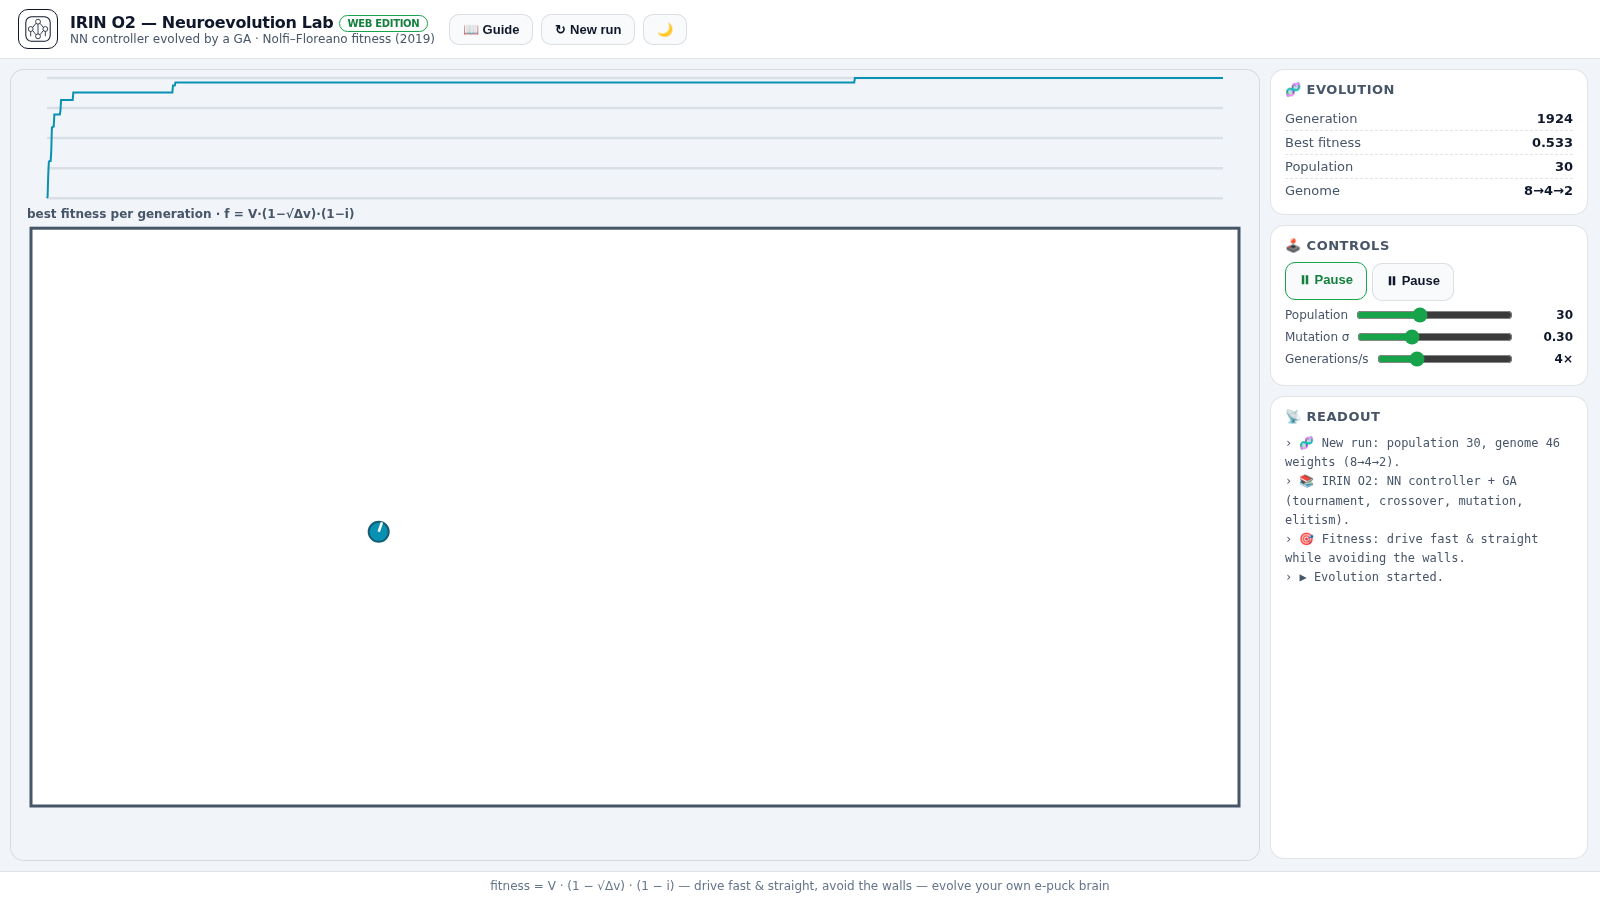
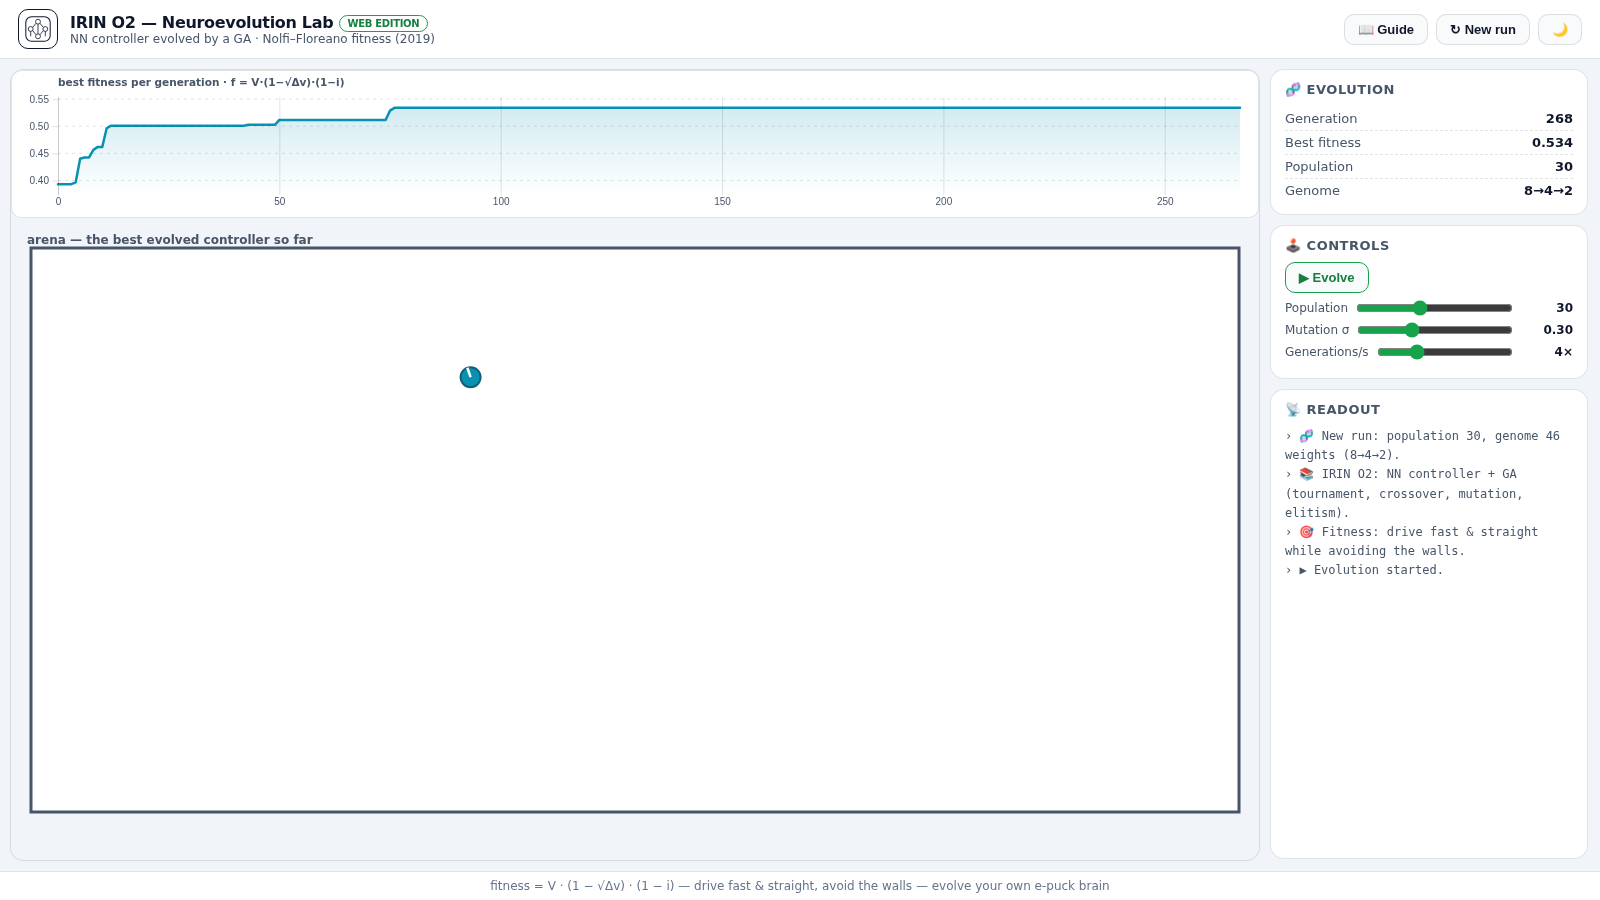
ui: remove redundant Pause button — the Evolve button toggles to Pause when running

diff --git a/webgame/js/main.js b/webgame/js/main.js
@@ -243,10 +243,6 @@
       this.textContent = running ? "⏸ Pause" : "▶ Evolve";
       if (running && history.length === 0) log("▶ Evolution started.");
     });
-    $id("btn-pause").addEventListener("click", function () {
-      running = false;
-      $id("btn-run").textContent = "▶ Evolve";
-    });
     $id("btn-restart").addEventListener("click", function () {
       running = false;
       $id("btn-run").textContent = "▶ Evolve";

diff --git a/webgame/index.html b/webgame/index.html
@@ -95,7 +95,6 @@
         <section class="panel">
           <h2>🕹 Controls</h2>
           <button class="btn primary" id="btn-run">▶ Evolve</button>
-          <button class="btn" id="btn-pause">⏸ Pause</button>
           <label class="slider-row"
             >Population
             <input
